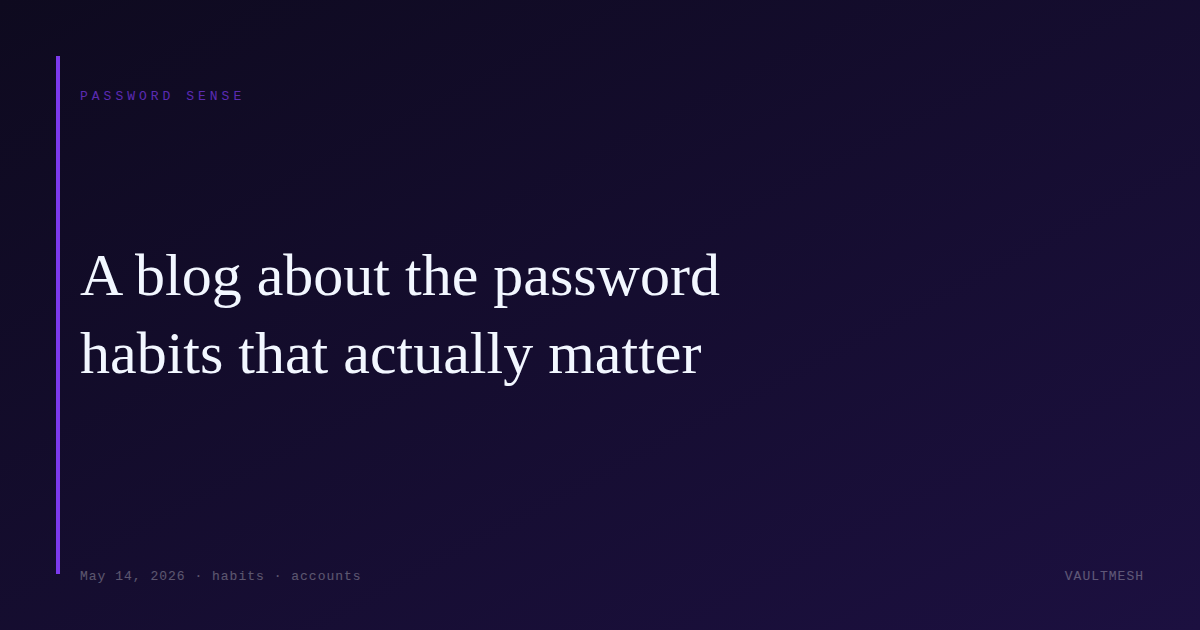
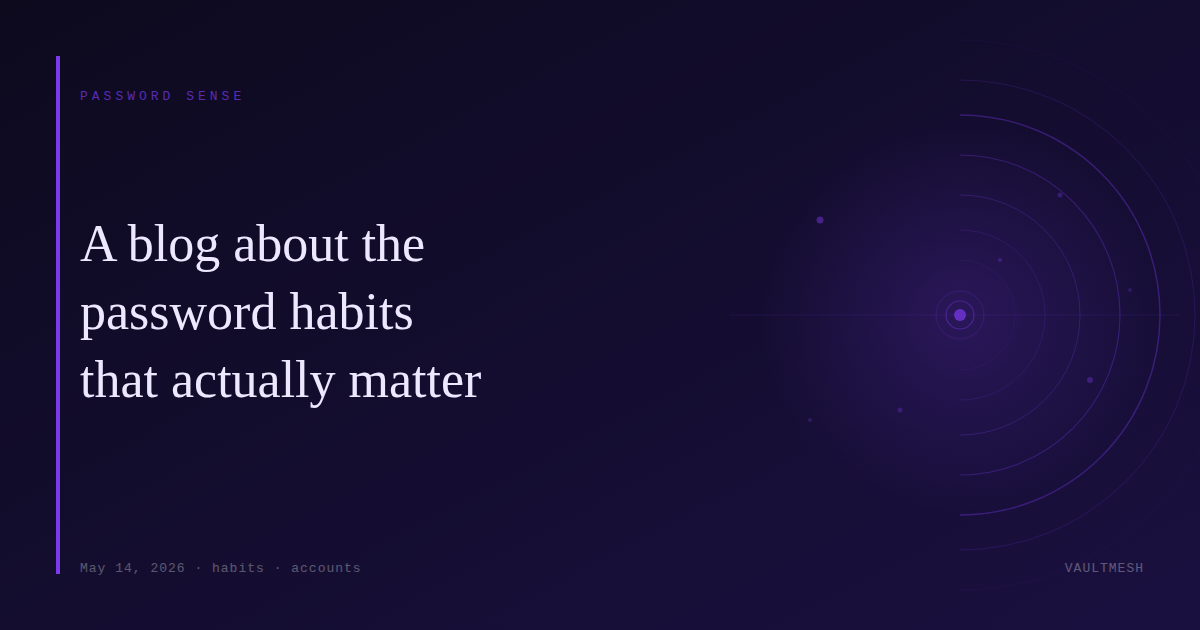
blog: AI-generated SVG covers per post + preserve existing covers on rebuild

diff --git a/prompts/generate-post.md b/prompts/generate-post.md
@@ -35,6 +35,23 @@ Follow these steps exactly, in order:
    that exact name already exists, append `-2` (or `-3`, etc.) to the slug
    portion of the filename. Never overwrite an existing draft.
 
+5b. Generate a cover SVG for the post and write it to
+    `blog/posts/covers/<slug>.svg`. The SVG must be 1200×630 px. Design
+    guidelines:
+    - Background: a dark gradient that matches the post's primary tag color
+      (breaches → dark red, phishing → dark amber, 2fa → dark green,
+      habits → dark purple, myths → dark teal, passwords/accounts → dark navy).
+    - Left side (x 56–680): left accent bar (x=56, w=4, h=518) in the accent
+      color; "PASSWORD SENSE" label (monospace, 13px, letter-spacing 4) at
+      y=100; the post title wrapped to ≤28 chars per line in Georgia serif
+      (52–60px); date + tags and "VAULTMESH" wordmark at y=580 in white 30%
+      opacity.
+    - Right side (x 700–1200): a UNIQUE thematic illustration drawn with SVG
+      primitives (circles, lines, paths, polygons) that visually represents the
+      post's topic — NOT just abstract shapes, but something conceptually
+      related to the article. Be creative and specific to the topic.
+    - No external images or fonts. SVG elements only.
+
 6. Update `blog/topics.json` in place:
    - Set the chosen topic's `status` to `"drafted"`.
    - Add a `"draft_path"` field with the relative path to the new file.
